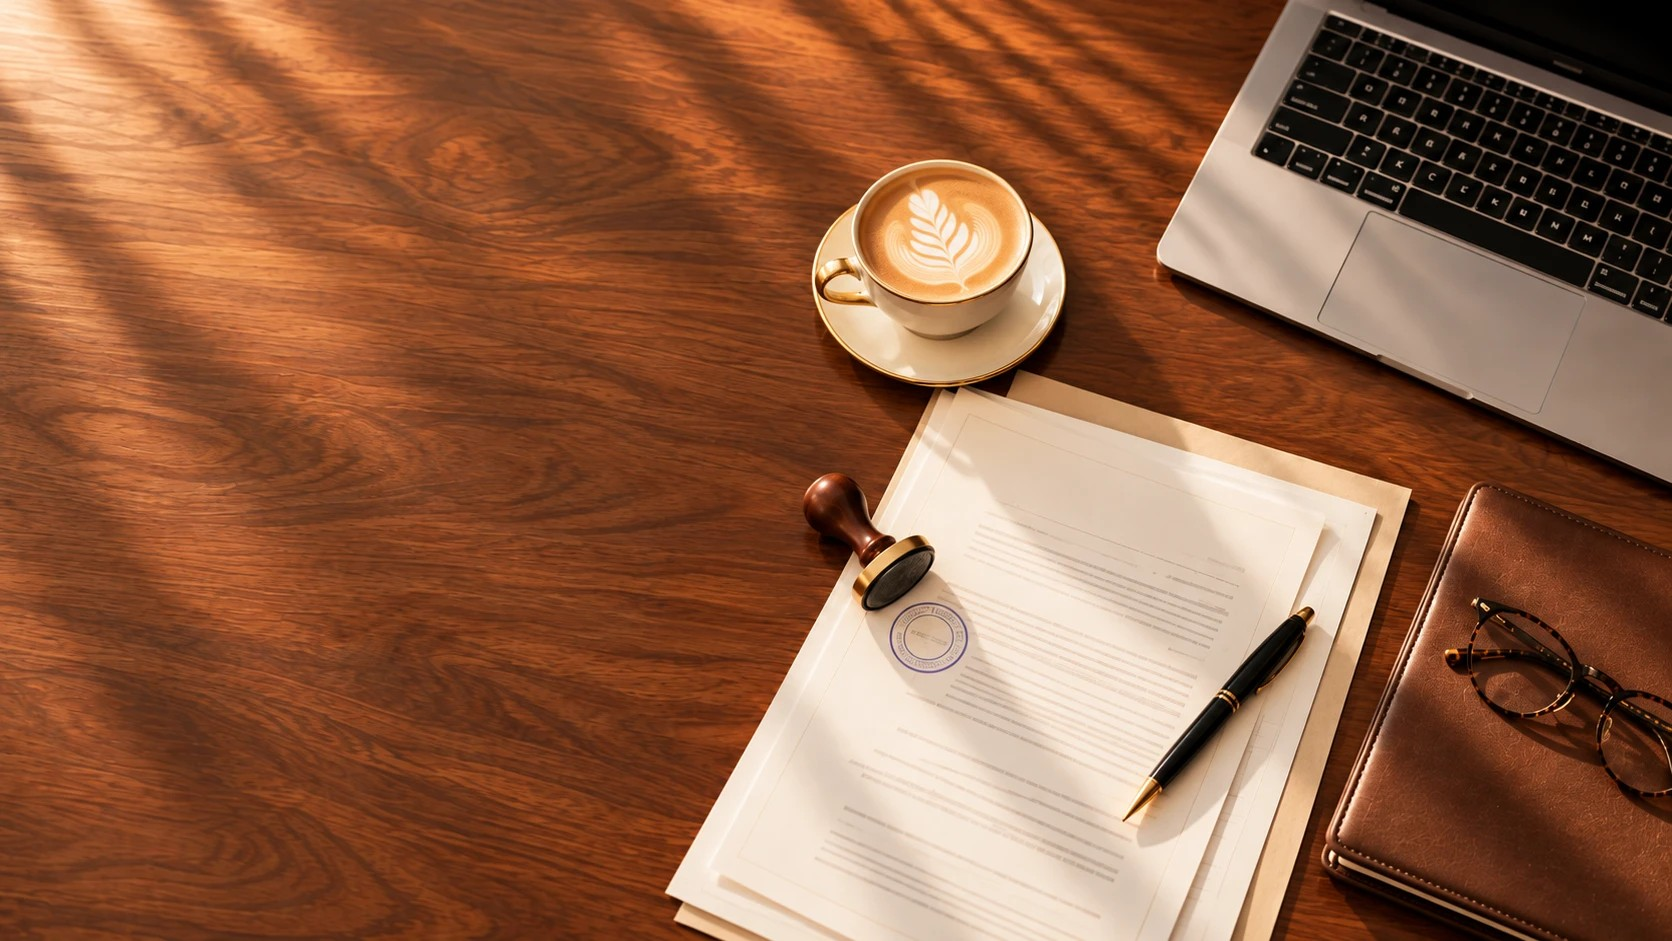
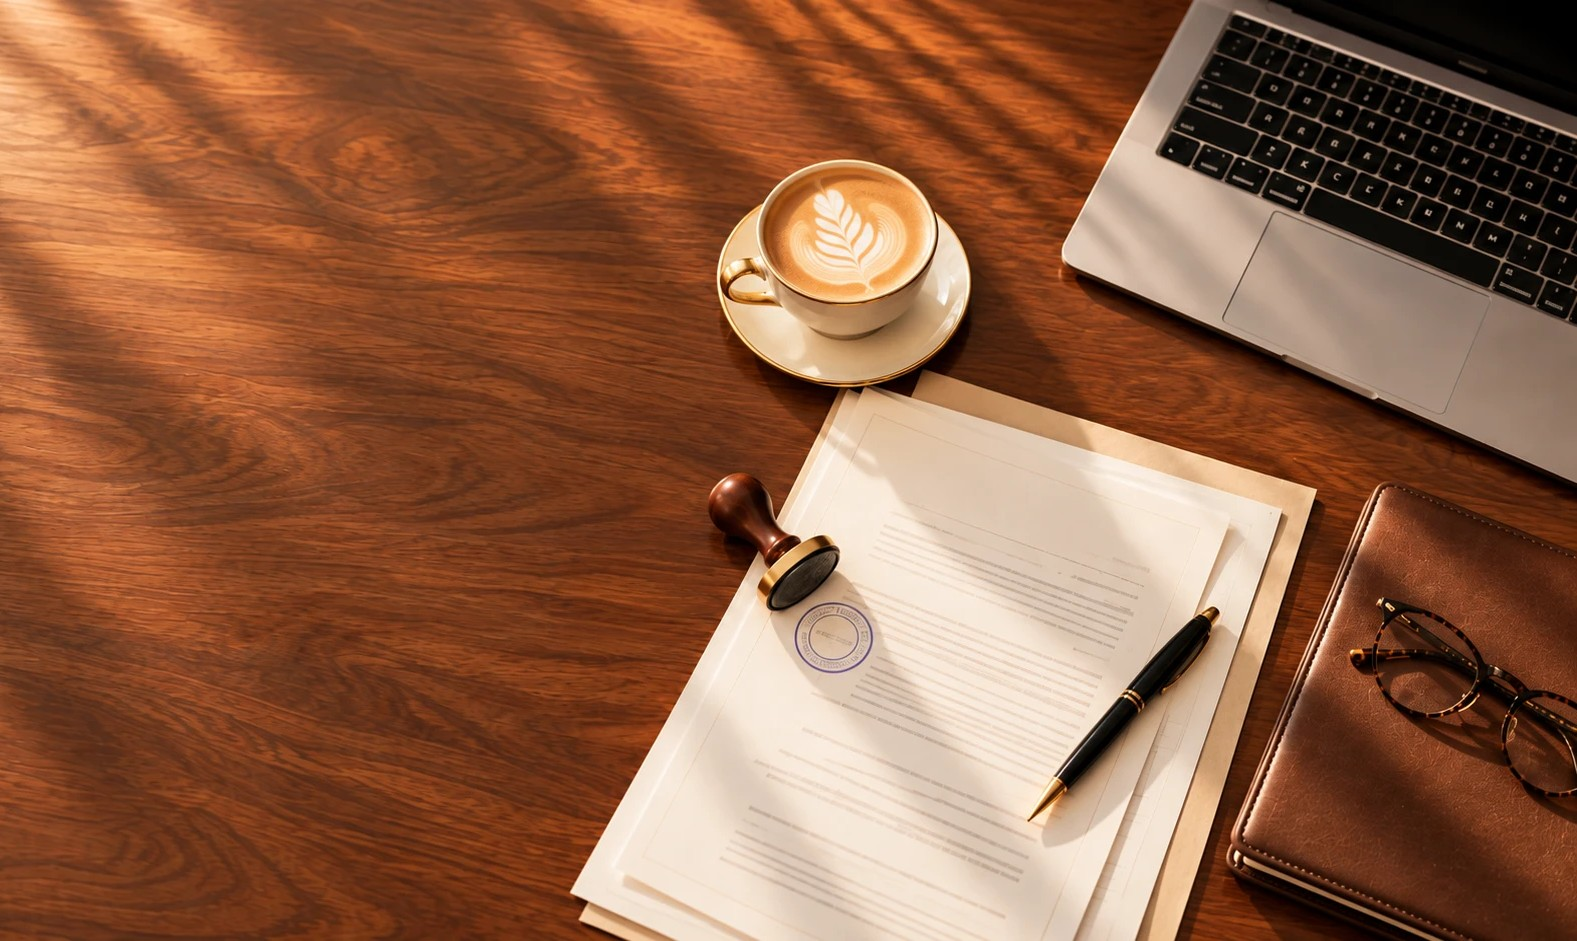
Hero photo: coffee and stamp further left

diff --git a/index.html b/index.html
@@ -13,12 +13,12 @@
 <meta property="og:description" content="Prevoditeljska agencija Orbita: ovjereni prijevodi sudskih tumača, pisani i usmeni prijevodi na više od 30 jezika te lektura. Uredi u Rijeci (Kastav) i Zagrebu. Zatražite neobvezujuću ponudu.">
 <meta property="og:image" content="https://www.orbitaprijevodi.com/assets/hero-desk.jpg">
 <meta property="og:locale" content="hr_HR">
-<link rel="preload" as="image" href="assets/hero-desk.webp?v=46" type="image/webp">
+<link rel="preload" as="image" href="assets/hero-desk.webp?v=47" type="image/webp">
 <script type="application/ld+json">{"@context": "https://schema.org", "@graph": [{"@type": "ProfessionalService", "name": "Orbita prijevodi, ured u Rijeci", "url": "https://www.orbitaprijevodi.com/", "image": "https://www.orbitaprijevodi.com/assets/hero-desk.jpg", "logo": "https://www.orbitaprijevodi.com/assets/orbita-logo.png", "telephone": "+385981631930", "email": "info@orbitaprijevodi.com", "address": {"@type": "PostalAddress", "streetAddress": "Ćikovići 109", "addressLocality": "Kastav", "postalCode": "51215", "addressCountry": "HR"}, "areaServed": "HR", "knowsLanguage": ["hr", "en", "sl", "sr", "de", "it", "fr", "es"], "contactPoint": [{"@type": "ContactPoint", "telephone": "+385981631930", "contactType": "customer service", "availableLanguage": ["Croatian", "English", "Slovenian"]}, {"@type": "ContactPoint", "telephone": "+38551223932", "contactType": "customer service", "availableLanguage": ["Croatian", "English", "Slovenian"]}]}, {"@type": "ProfessionalService", "name": "Orbita prijevodi, ured u Zagrebu", "url": "https://www.orbitaprijevodi.com/", "image": "https://www.orbitaprijevodi.com/assets/hero-desk.jpg", "logo": "https://www.orbitaprijevodi.com/assets/orbita-logo.png", "telephone": "+385916126784", "email": "zagreb@orbitaprijevodi.com", "address": {"@type": "PostalAddress", "streetAddress": "Martićeva ulica 67", "addressLocality": "Zagreb", "postalCode": "10000", "addressCountry": "HR"}, "areaServed": "HR", "knowsLanguage": ["hr", "en", "sl", "sr", "de", "it", "fr", "es"], "contactPoint": [{"@type": "ContactPoint", "telephone": "+385916126784", "contactType": "customer service", "availableLanguage": ["Croatian", "English", "Slovenian"]}, {"@type": "ContactPoint", "telephone": "+38512018053", "contactType": "customer service", "availableLanguage": ["Croatian", "English", "Slovenian"]}]}]}</script>
 <link rel="preconnect" href="https://fonts.googleapis.com">
 <link rel="preconnect" href="https://fonts.gstatic.com" crossorigin>
 <link href="https://fonts.googleapis.com/css2?family=Fraunces:ital,opsz,wght@0,9..144,300;0,9..144,400;1,9..144,300;1,9..144,400&family=DM+Sans:wght@400;500&family=DM+Mono:wght@400&display=swap" rel="stylesheet">
-<link rel="stylesheet" href="styles.css?v=46">
+<link rel="stylesheet" href="styles.css?v=47">
 </head>
 <body>
 
@@ -260,9 +260,9 @@
 
 <a class="float-cta pill pill-accent" href="#ponuda">Zatražite ponudu</a>
 
-<script src="content.js?v=46"></script>
+<script src="content.js?v=47"></script>
 <script src="https://cdn.jsdelivr.net/npm/topojson-client@3.1.0/dist/topojson-client.min.js"></script>
-<script src="globe.js?v=46"></script>
-<script src="app.js?v=46"></script>
+<script src="globe.js?v=47"></script>
+<script src="app.js?v=47"></script>
 </body>
 </html>

diff --git a/styles.css b/styles.css
@@ -80,7 +80,7 @@ h1 em, h2 em { font-style: italic; color: var(--accent); }
 /* Hero */
 main { overflow-x: clip; }
 .hero { position: relative; min-height: 100svh; display: grid; grid-template-columns: 1.05fr 0.95fr; align-items: center; gap: 24px; padding: 130px var(--pad) 165px; color: #fbf5ec; background: #14161b; overflow: clip; }
-.hero-bg { position: absolute; inset: 0; background: url("assets/hero-desk.webp?v=46") right center / cover no-repeat; }
+.hero-bg { position: absolute; inset: 0; background: url("assets/hero-desk.webp?v=47") right center / cover no-repeat; }
 .hero::before { content: ""; position: absolute; inset: 0; z-index: 1; background: linear-gradient(0deg, rgba(38, 20, 8, 0.5) 0%, rgba(38, 20, 8, 0) 32%), linear-gradient(90deg, rgba(38, 20, 8, 0.66) 0%, rgba(38, 20, 8, 0.42) 48%, rgba(38, 20, 8, 0.16) 100%); }
 /* Warm variation of the photo, previewed with ?warm in the address */
 .hero.warm .hero-bg { filter: sepia(0.7) saturate(1.6) hue-rotate(-10deg) brightness(1.22) contrast(0.94); }
